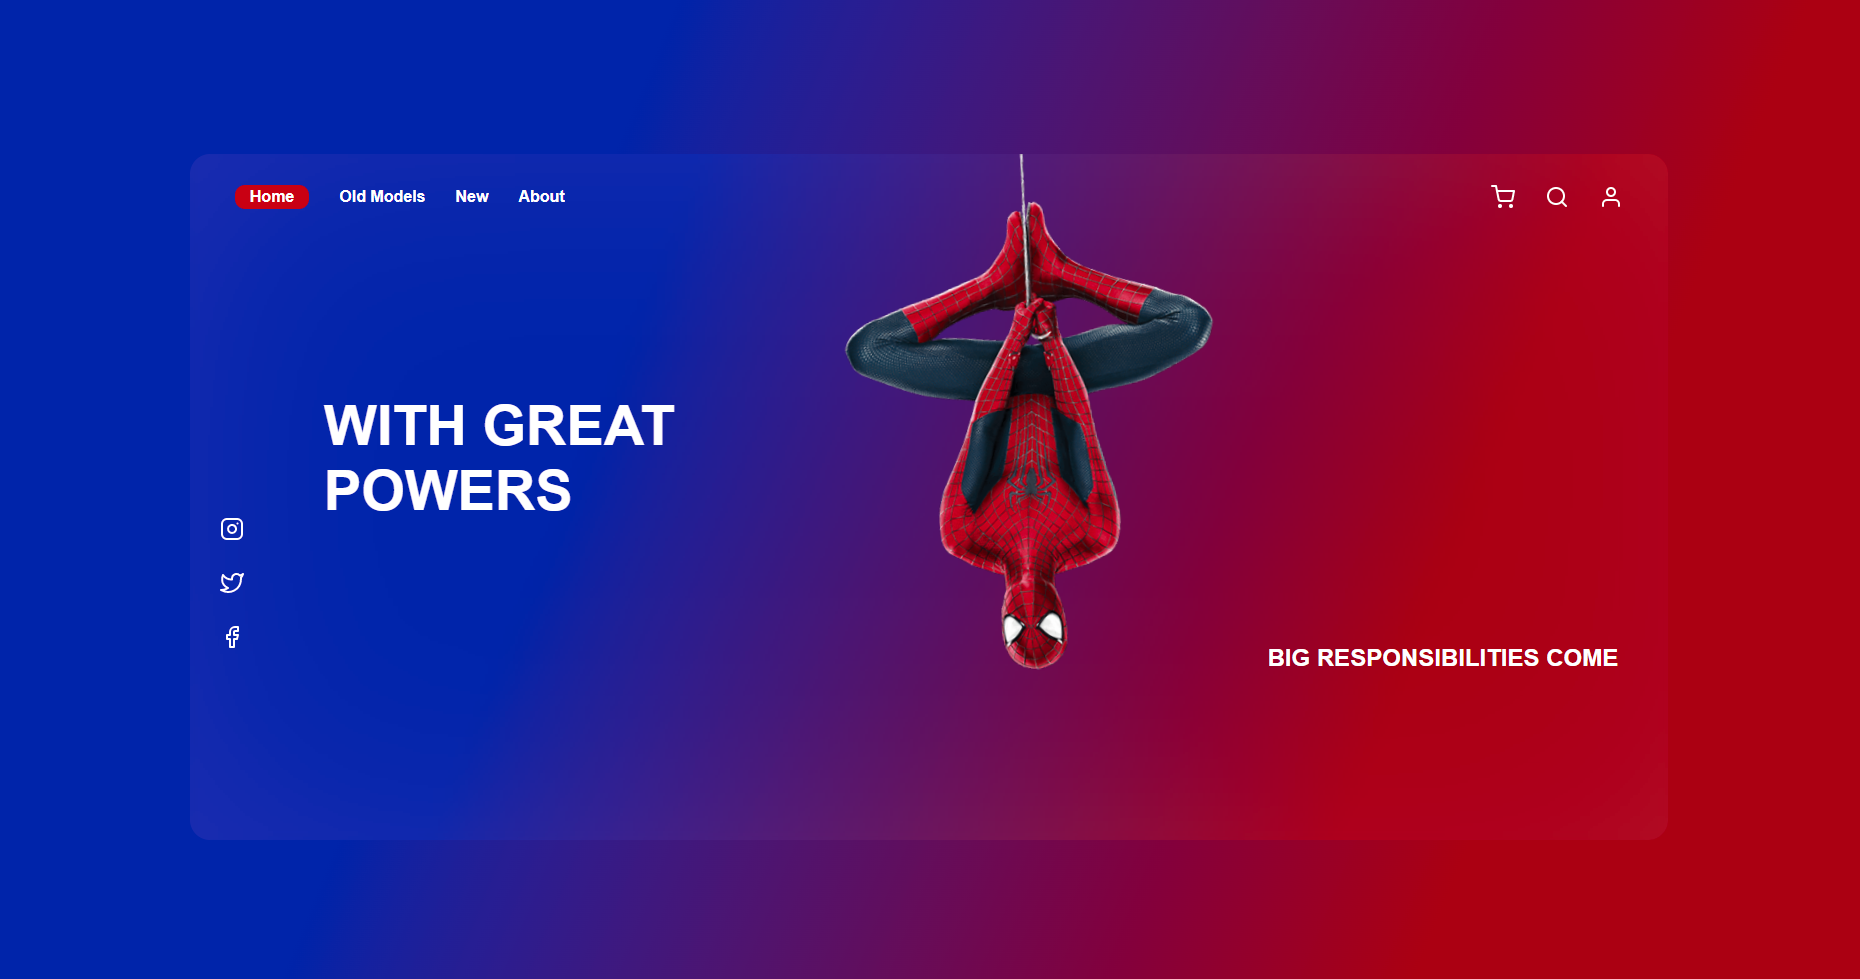
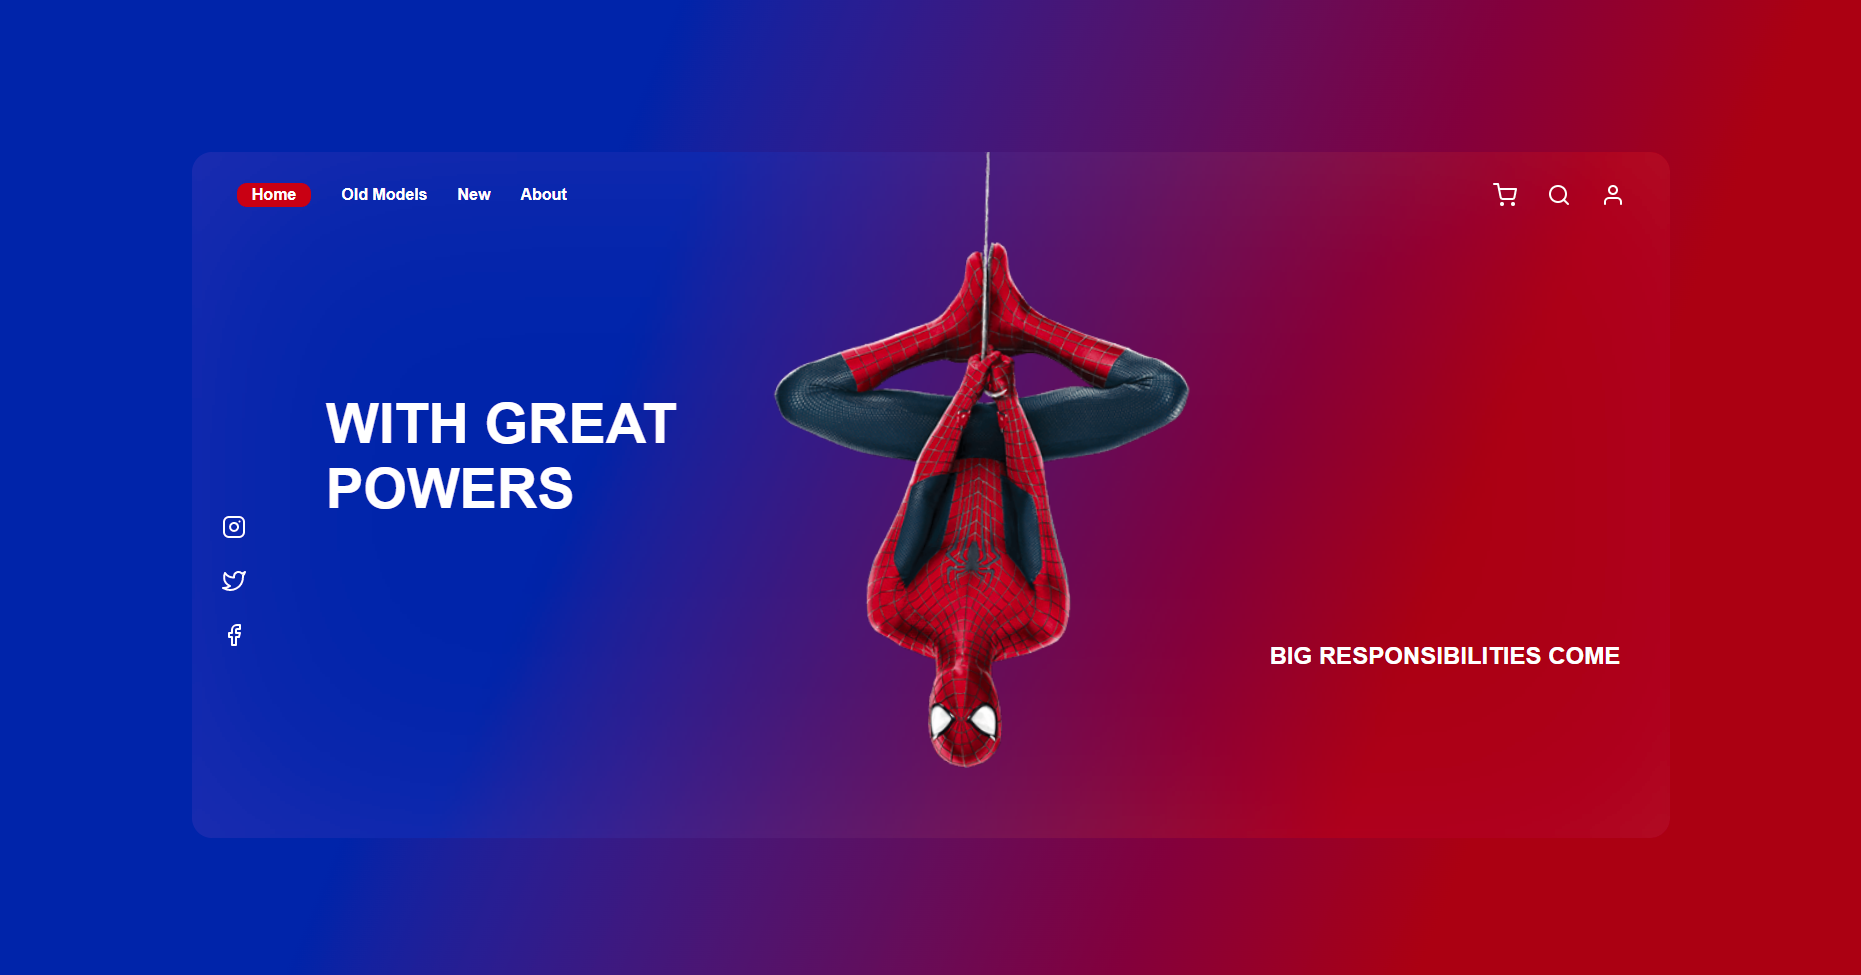
Spider-Man

diff --git a/css/style.css b/css/style.css
@@ -92,11 +92,11 @@ nav ul li.active {
 
 .content img {
   position: absolute;
-  width: 40%;
-  top: -15%;
-  left: 45%;
-  -webkit-transform: translate(-20%, -10%) rotate(-5deg);
-          transform: translate(-20%, -10%) rotate(-5deg);
+  width: 45%;
+  top: -10%;
+  left: 40%;
+  -webkit-transform: translate(-20%, -10%) rotate(-1deg);
+          transform: translate(-20%, -10%) rotate(-1deg);
 }
 
 .content .social-media {

diff --git a/css/style.scss b/css/style.scss
@@ -70,10 +70,10 @@ nav {
 
     img {
         position: absolute;
-        width: 40%;
-        top: -15%;
-        left: 45%;
-        transform: translate(-20%, -10%) rotate(-5deg);
+        width: 45%;
+        top: -10%;
+        left: 40%;
+        transform: translate(-20%, -10%) rotate(-1deg);
     }
 
     .social-media {

diff --git a/README.md b/README.md
@@ -16,4 +16,4 @@
 
 
 <h3 align="center" style="font-size: 3rem";>Principal tela</h3>
-<img src="img/spider-man.png">
+<img src="img/Spider-Man.png">
